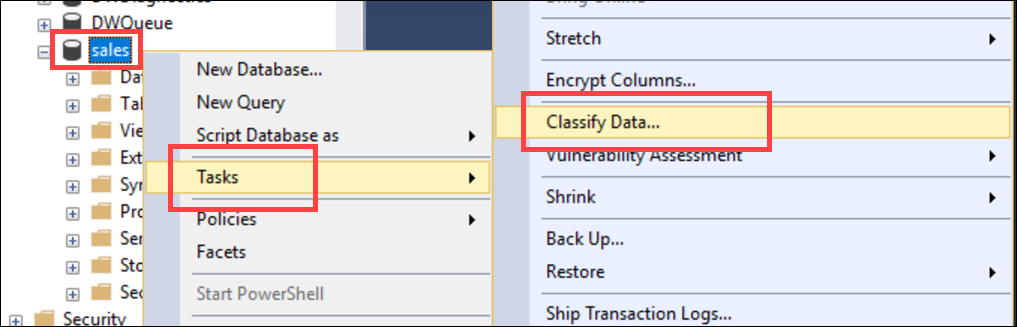
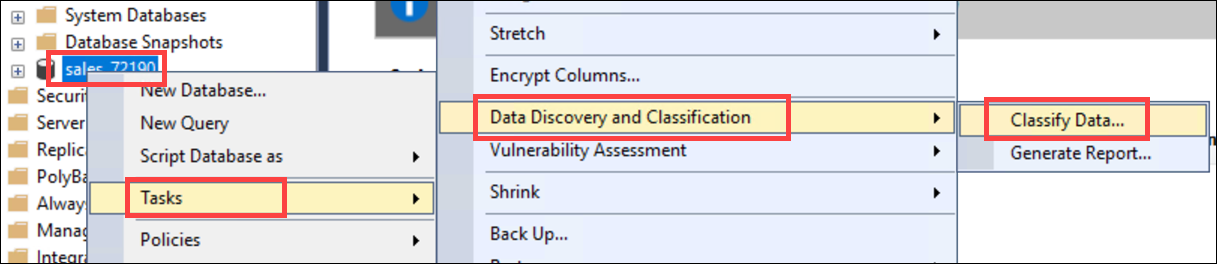
Update Classify Data path in SSMS

diff --git a/day1-exp1/README.md b/day1-exp1/README.md
@@ -340,7 +340,7 @@ With SQL Server Management Studio, they are able to identify, classify, and gene
 
 In this exercise, you will run the SQL Data Discovery & Classification tool against their customer database, which includes personal, demographic, and sales data.
 
-1. To get started, expand databases in the SQL Server Management Studio (SSMS) Object Explorer, right-click the `sales_XXXXX` database (where XXXXX is the unique identifier assigned to you for this workshop), and then choose **Tasks > Classify Data...**.
+1. To get started, expand databases in the SQL Server Management Studio (SSMS) Object Explorer, right-click the `sales_XXXXX` database (where XXXXX is the unique identifier assigned to you for this workshop), and then choose **Tasks > Data Discovery and Classification > Classify Data...**.
 
    ![The sales database, Tasks menu, and Classify Data items are highlighted.](media/ssms-classify-data-link.png 'Data Classification')
 
